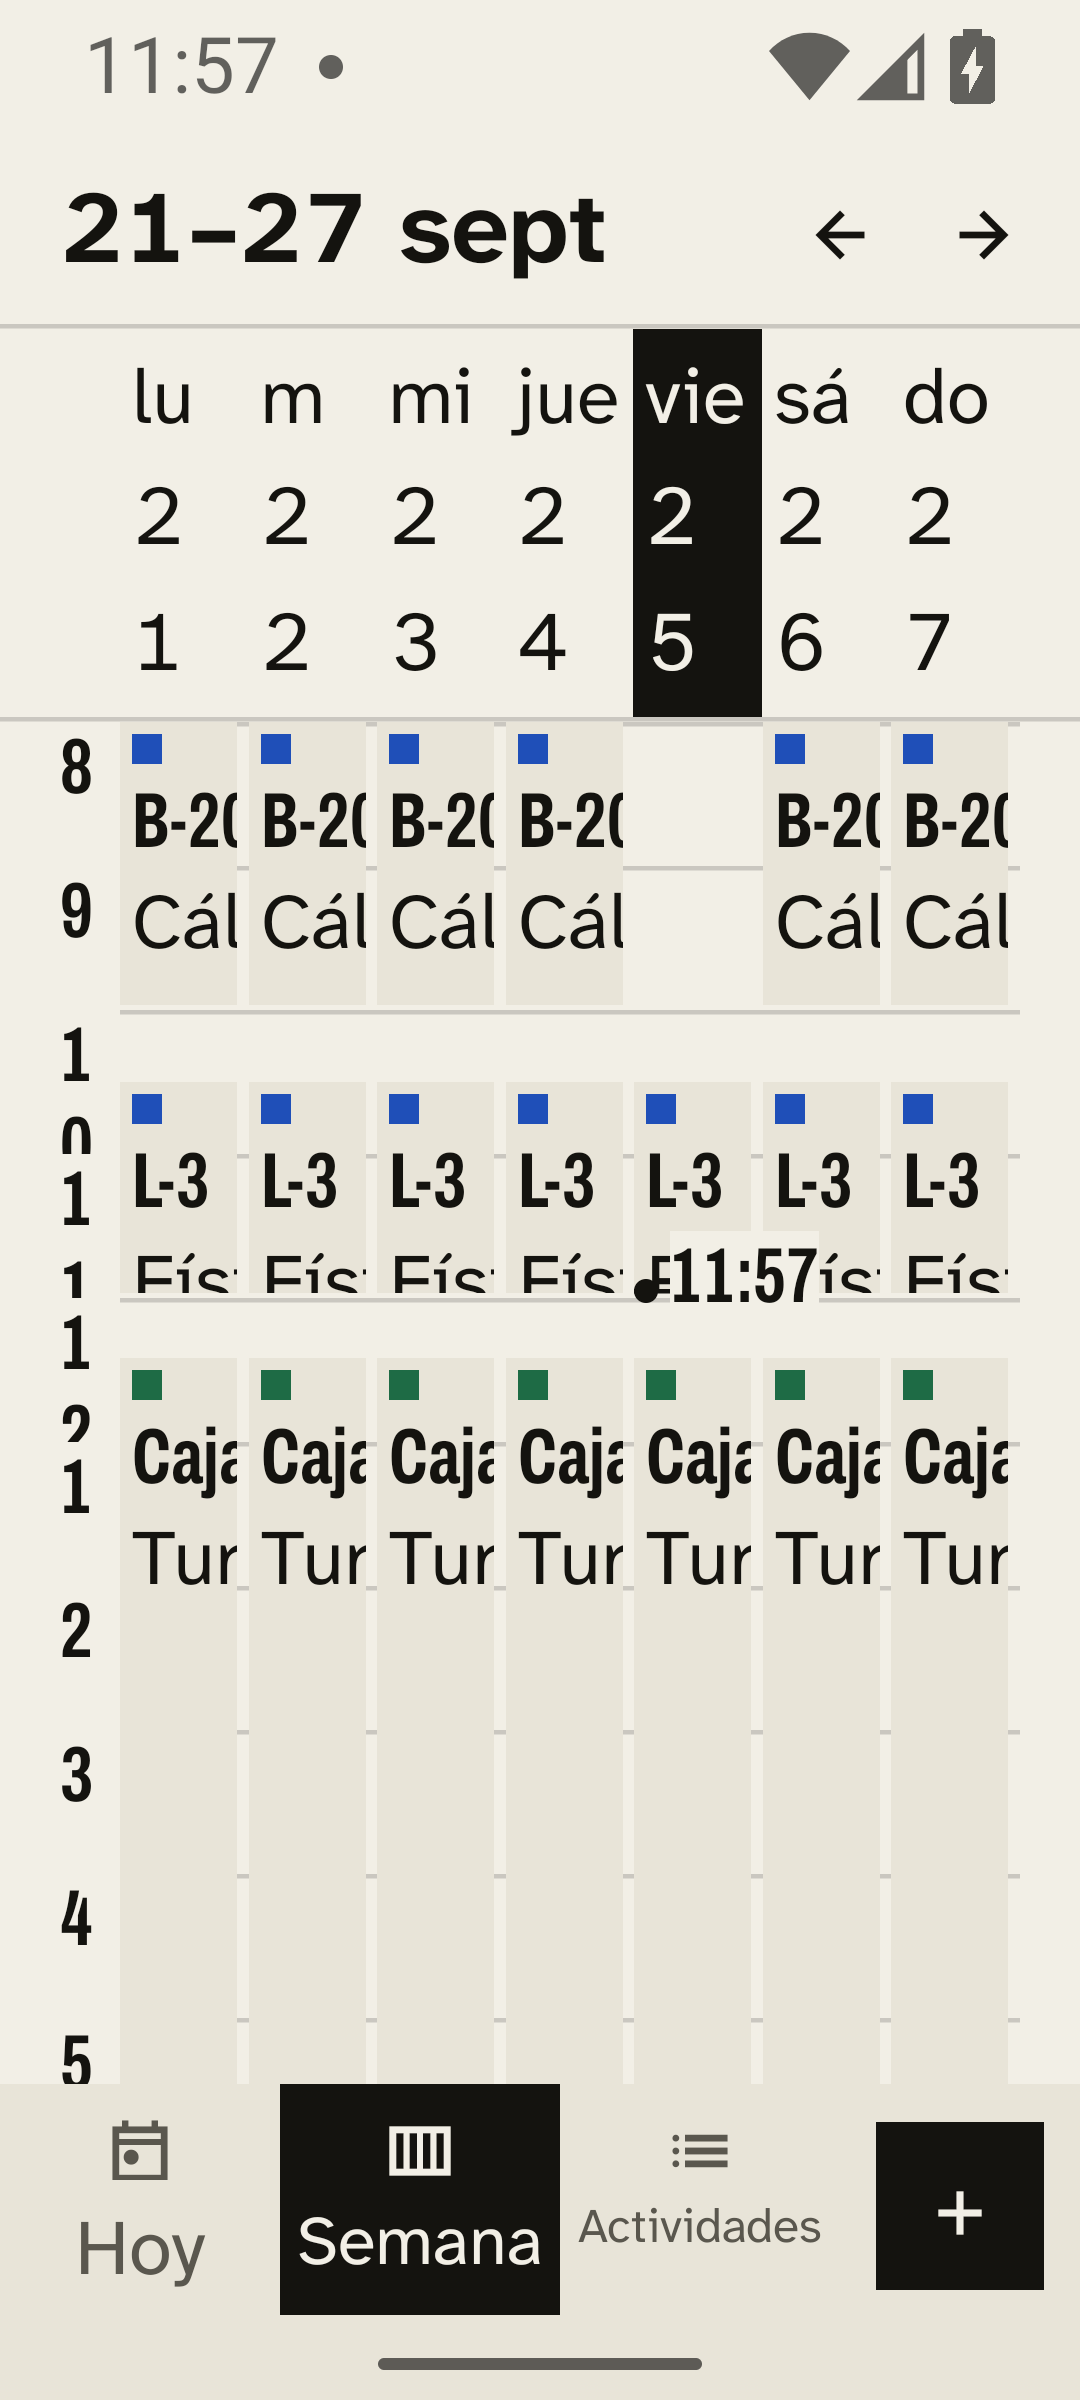
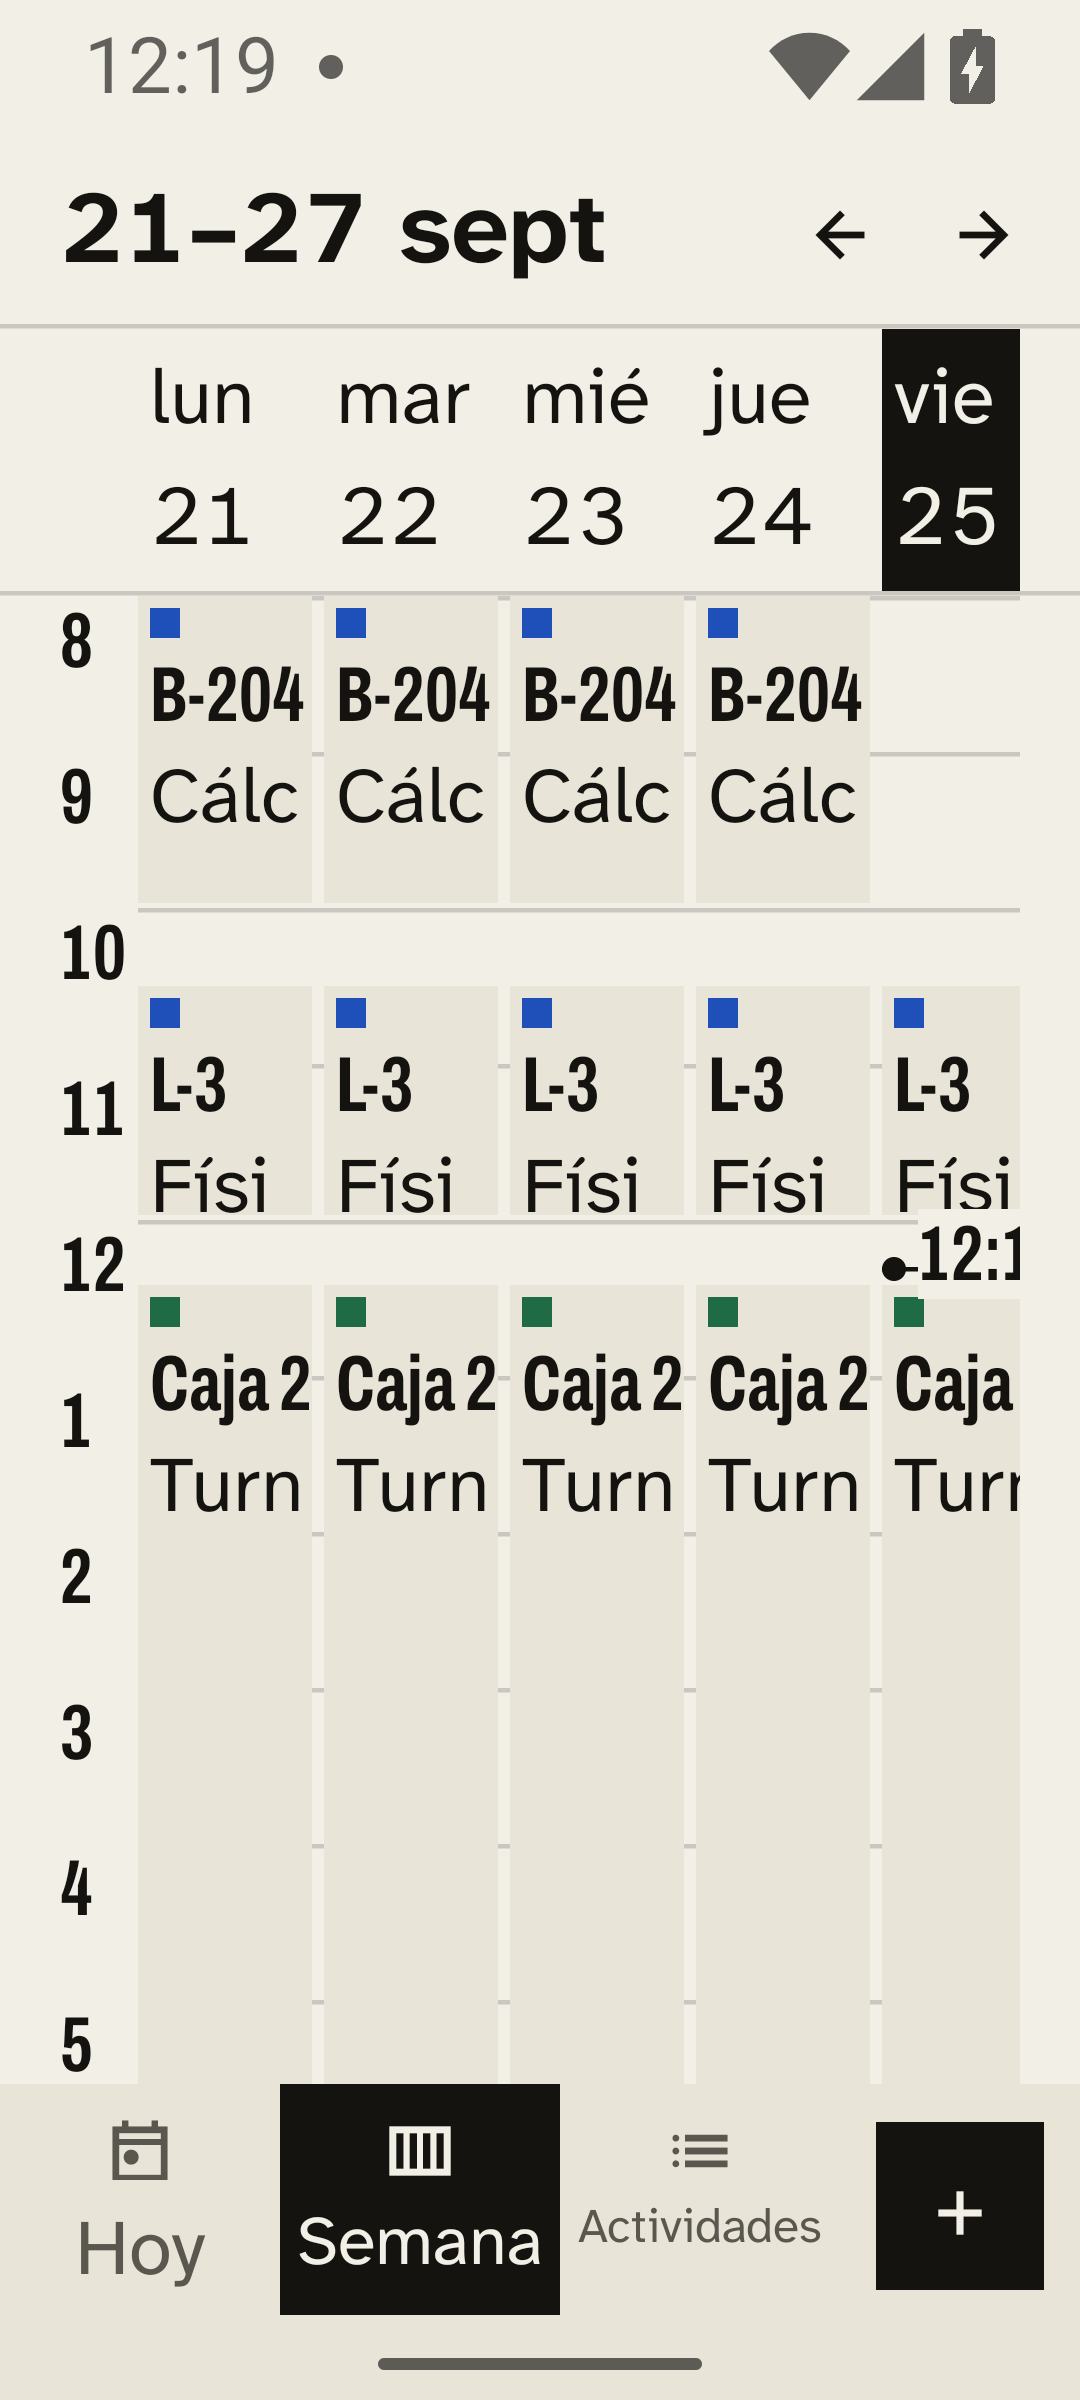
Semana: letra grande con desplazamiento horizontal y hoy a la vista

diff --git a/app/src/main/java/com/dpinta/agenda/ui/semana/SemanaScreen.kt b/app/src/main/java/com/dpinta/agenda/ui/semana/SemanaScreen.kt
@@ -17,6 +17,8 @@ import androidx.compose.foundation.layout.offset
 import androidx.compose.foundation.layout.padding
 import androidx.compose.foundation.layout.size
 import androidx.compose.foundation.layout.width
+import androidx.compose.foundation.ScrollState
+import androidx.compose.foundation.horizontalScroll
 import androidx.compose.foundation.rememberScrollState
 import androidx.compose.foundation.shape.CircleShape
 import androidx.compose.foundation.verticalScroll
@@ -24,11 +26,14 @@ import androidx.compose.material3.HorizontalDivider
 import androidx.compose.material3.Text
 import androidx.compose.material3.ripple
 import androidx.compose.runtime.Composable
+import androidx.compose.runtime.LaunchedEffect
 import androidx.compose.runtime.getValue
 import androidx.compose.runtime.remember
 import androidx.compose.ui.Modifier
 import androidx.compose.ui.draw.clipToBounds
 import androidx.compose.ui.graphics.graphicsLayer
+import androidx.compose.ui.platform.LocalDensity
+import androidx.compose.ui.text.rememberTextMeasurer
 import androidx.compose.ui.semantics.Role
 import androidx.compose.ui.semantics.clearAndSetSemantics
 import androidx.compose.ui.semantics.contentDescription
@@ -59,7 +64,7 @@ private val ESPANOL: Locale = Locale.forLanguageTag("es")
 private val DIA_LARGO = DateTimeFormatter.ofPattern("EEEE d 'de' MMMM", ESPANOL)
 private val DIA_CORTO = DateTimeFormatter.ofPattern("EEE d MMM", ESPANOL)
 
-/** C4.6: franjas de 48 dp por hora. */
+/** C4.6: franjas de 48 dp por hora (mínimo; ver [MedidasSemana]). */
 private val FRANJA: Dp = AgendaSpacing.s48
 
 /** Columna de horas de Semana: solo la cifra («7», «14»), en `celda`. */
@@ -125,81 +130,138 @@ private fun titulo(s: SemanaUiState.Semana): String {
     return s.numero?.let { "Semana $it · $rango" } ?: rango
 }
 
+/**
+ * Medidas de la rejilla según la letra del teléfono. Con la letra normal, 7 columnas iguales y
+ * franjas de 48 dp (C4.6). Si el salón no cabe, la columna toma el ancho que necesita y la rejilla
+ * se desliza en horizontal; si no cabe en alto, la franja crece (C2.4: nada se recorta; enmienda 2026-09-25).
+ */
+private data class MedidasSemana(val horas: Dp, val columna: Dp, val franja: Dp, val desliza: Boolean)
+
+@Composable
+private fun medir(s: SemanaUiState.Semana, ancho: Dp): MedidasSemana {
+    val t = AgendaTheme.tipo
+    val medidor = rememberTextMeasurer()
+    val densidad = LocalDensity.current
+    val es24h = rememberEs24h()
+    fun anchoDe(texto: String, estilo: androidx.compose.ui.text.TextStyle): Dp =
+        with(densidad) { medidor.measure(texto, estilo, softWrap = false, maxLines = 1).size.width.toDp() }
+    val horas = maxOf(COLUMNA_HORAS, anchoDe(if (es24h) "22" else "12", t.celda) + AgendaSpacing.s4)
+    val contenido = (
+        s.bloques.flatMap { listOf(anchoDe(it.salon, t.celda), anchoDe(it.abreviado, t.meta)) } +
+            s.dias.flatMap { listOf(anchoDe(nombreDia(it), t.meta), anchoDe(it.fecha.dayOfMonth.toString(), t.cuerpo)) } +
+            AgendaMedidas.marcadorTipo
+        ).max()
+    // 4 dp de relleno a la izquierda y 4 dp de separación a la derecha (C4.1).
+    val minima = contenido + AgendaSpacing.s8
+    val disponible = ancho - AgendaTheme.reticula.margen * 2 - horas
+    val lineaSalon = with(densidad) { medidor.measure("B-204", t.celda).size.height.toDp() }
+    val franja = maxOf(FRANJA, AgendaSpacing.s4 + AgendaMedidas.marcadorTipo + AgendaSpacing.s4 + lineaSalon + AgendaSpacing.s4)
+    return MedidasSemana(horas, maxOf(disponible / 7, minima), franja, minima * 7 > disponible)
+}
+
+private fun nombreDia(d: DiaSemana) = d.fecha.dayOfWeek.getDisplayName(TextStyle.SHORT, ESPANOL).removeSuffix(".")
+
 @Composable
 private fun Semana(s: SemanaUiState.Semana, onEditar: (Long) -> Unit, onEstaSemana: () -> Unit) {
     val c = AgendaTheme.colores
     val t = AgendaTheme.tipo
     val m = AgendaTheme.reticula.margen
-    if (s.ahora == null) {
-        Row(Modifier.padding(horizontal = m)) { BotonSubrayado("Volver a esta semana", tinta = c.tinta, onClick = onEstaSemana) }
+    BoxWithConstraints(Modifier.fillMaxSize()) {
+        val medidas = medir(s, maxWidth)
+        // Una sola posición horizontal para la tira de días y la rejilla: se deslizan juntas.
+        val lateral = rememberScrollState()
+        // Si la rejilla se desliza, se abre con hoy a la vista (una columna antes, para dar contexto).
+        val hoy = s.dias.indexOfFirst { it.esHoy }
+        val desde = with(LocalDensity.current) { (medidas.columna * maxOf(hoy - 1, 0)).roundToPx() }
+        LaunchedEffect(s.lunes, medidas.desliza) { if (medidas.desliza && hoy >= 0) lateral.scrollTo(desde) }
+        Column {
+            if (s.ahora == null) {
+                Row(Modifier.padding(horizontal = m)) { BotonSubrayado("Volver a esta semana", tinta = c.tinta, onClick = onEstaSemana) }
+            }
+            TiraDias(s, medidas, lateral)
+            for (d in s.dias.filter { it.sinClase != null }) {
+                Text(
+                    "${d.sinClase} · ${DIA_CORTO.format(d.fecha).replace(".", "")}",
+                    style = t.meta,
+                    color = c.tinta,
+                    modifier = Modifier.padding(horizontal = m, vertical = AgendaSpacing.s4),
+                )
+            }
+            if (s.bloques.isEmpty()) {
+                Text("Esta semana no tienes nada fijo.", style = t.cuerpo, color = c.tinta, modifier = Modifier.padding(horizontal = m, vertical = AgendaSpacing.s12))
+            }
+            HorizontalDivider(thickness = AgendaMedidas.filete, color = c.filete)
+            Rejilla(s, medidas, lateral, onEditar)
+        }
     }
-    TiraDias(s)
-    for (d in s.dias.filter { it.sinClase != null }) {
-        Text(
-            "${d.sinClase} · ${DIA_CORTO.format(d.fecha).replace(".", "")}",
-            style = t.meta,
-            color = c.tinta,
-            modifier = Modifier.padding(horizontal = m, vertical = AgendaSpacing.s4),
-        )
-    }
-    if (s.bloques.isEmpty()) {
-        Text("Esta semana no tienes nada fijo.", style = t.cuerpo, color = c.tinta, modifier = Modifier.padding(horizontal = m, vertical = AgendaSpacing.s12))
-    }
-    HorizontalDivider(thickness = AgendaMedidas.filete, color = c.filete)
-    Rejilla(s, onEditar)
 }
+
+private fun Modifier.deslizable(medidas: MedidasSemana, estado: ScrollState): Modifier =
+    if (medidas.desliza) horizontalScroll(estado) else this
 
 /** Tira de días: el de hoy invertido (C6), los demás sin caja. */
 @Composable
-private fun TiraDias(s: SemanaUiState.Semana) {
+private fun TiraDias(s: SemanaUiState.Semana, medidas: MedidasSemana, lateral: ScrollState) {
     val c = AgendaTheme.colores
     val t = AgendaTheme.tipo
-    Row(Modifier.fillMaxWidth().padding(start = AgendaTheme.reticula.margen + COLUMNA_HORAS, end = AgendaTheme.reticula.margen)) {
-        for (d in s.dias) {
-            val fondo = if (d.esHoy) c.tinta else c.papel
-            val tinta = if (d.esHoy) c.papel else c.tinta
-            val nombre = d.fecha.dayOfWeek.getDisplayName(TextStyle.SHORT, ESPANOL).removeSuffix(".")
-            Column(
-                Modifier
-                    .weight(1f)
-                    .background(fondo)
-                    .padding(horizontal = AgendaSpacing.s4, vertical = AgendaSpacing.s4)
-                    .clearAndSetSemantics {
-                        contentDescription = DIA_LARGO.format(d.fecha) + if (d.esHoy) ", hoy" else ""
-                    },
-            ) {
-                Text(nombre, style = t.meta, color = tinta, maxLines = 1)
-                Text(d.fecha.dayOfMonth.toString(), style = t.cuerpo, color = tinta)
+    val m = AgendaTheme.reticula.margen
+    Row(Modifier.fillMaxWidth().padding(start = m + medidas.horas, end = m)) {
+        Row(Modifier.weight(1f).deslizable(medidas, lateral)) {
+            for (d in s.dias) {
+                val fondo = if (d.esHoy) c.tinta else c.papel
+                val tinta = if (d.esHoy) c.papel else c.tinta
+                Column(
+                    Modifier
+                        .width(medidas.columna)
+                        .background(fondo)
+                        .padding(horizontal = AgendaSpacing.s4, vertical = AgendaSpacing.s4)
+                        .clearAndSetSemantics {
+                            contentDescription = DIA_LARGO.format(d.fecha) + if (d.esHoy) ", hoy" else ""
+                        },
+                ) {
+                    Text(nombreDia(d), style = t.meta, color = tinta, maxLines = 1, softWrap = false)
+                    Text(d.fecha.dayOfMonth.toString(), style = t.cuerpo, color = tinta, maxLines = 1, softWrap = false)
+                }
             }
         }
     }
 }
 
 @Composable
-private fun Rejilla(s: SemanaUiState.Semana, onEditar: (Long) -> Unit) {
+private fun Rejilla(s: SemanaUiState.Semana, medidas: MedidasSemana, lateral: ScrollState, onEditar: (Long) -> Unit) {
     val c = AgendaTheme.colores
     val es24h = rememberEs24h()
     val horas = s.hasta - s.desde
+    val franja = medidas.franja
+    val columna = medidas.columna
     Box(Modifier.fillMaxWidth().verticalScroll(rememberScrollState())) {
-        Row(Modifier.fillMaxWidth().height(FRANJA * horas).padding(horizontal = AgendaTheme.reticula.margen)) {
-            // Columna de horas: la cifra en la parte alta de cada franja.
-            Column(Modifier.width(COLUMNA_HORAS)) {
+        Row(Modifier.fillMaxWidth().height(franja * horas).padding(horizontal = AgendaTheme.reticula.margen)) {
+            // Columna de horas, fija aunque la rejilla se deslice: la cifra en la parte alta de cada franja.
+            Column(Modifier.width(medidas.horas)) {
                 for (h in s.desde until s.hasta) {
                     val cifra = if (es24h || h % 12 != 0) (if (es24h) h else h % 12).toString() else "12"
-                    Text(cifra, style = AgendaTheme.tipo.celda, color = c.tinta, modifier = Modifier.height(FRANJA).clearAndSetSemantics { })
+                    Text(
+                        cifra,
+                        style = AgendaTheme.tipo.celda,
+                        color = c.tinta,
+                        maxLines = 1,
+                        softWrap = false,
+                        modifier = Modifier.height(franja).clearAndSetSemantics { },
+                    )
                 }
             }
-            BoxWithConstraints(Modifier.weight(1f).fillMaxHeight()) {
-                val columna = maxWidth / 7
-                // Filete de 1,5 dp al inicio de cada hora (C6: separar filas).
-                for (h in 0 until horas) {
-                    HorizontalDivider(thickness = AgendaMedidas.filete, color = c.filete, modifier = Modifier.offset(y = FRANJA * h))
-                }
-                for (b in s.bloques) Celda(b, s.desde, columna, onEditar)
-                s.ahora?.let { ahora ->
-                    val hoy = s.dias.indexOfFirst { it.esHoy }
-                    val y = FRANJA * ((ahora.hour - s.desde) + ahora.minute / 60f)
-                    if (hoy >= 0 && ahora.hour >= s.desde && ahora.hour < s.hasta) LineaAhora(columna * hoy, y, columna, formatearHora(ahora, es24h).cifra)
+            Box(Modifier.weight(1f).fillMaxHeight().deslizable(medidas, lateral)) {
+                Box(Modifier.width(columna * 7).fillMaxHeight()) {
+                    // Filete de 1,5 dp al inicio de cada hora (C6: separar filas).
+                    for (h in 0 until horas) {
+                        HorizontalDivider(thickness = AgendaMedidas.filete, color = c.filete, modifier = Modifier.offset(y = franja * h))
+                    }
+                    for (b in s.bloques) Celda(b, s.desde, columna, franja, onEditar)
+                    s.ahora?.let { ahora ->
+                        val hoy = s.dias.indexOfFirst { it.esHoy }
+                        val y = franja * ((ahora.hour - s.desde) + ahora.minute / 60f)
+                        if (hoy >= 0 && ahora.hour >= s.desde && ahora.hour < s.hasta) LineaAhora(columna * hoy, y, columna, formatearHora(ahora, es24h).cifra)
+                    }
                 }
             }
         }
@@ -207,14 +269,14 @@ private fun Rejilla(s: SemanaUiState.Semana, onEditar: (Long) -> Unit) {
 }
 
 @Composable
-private fun Celda(b: Bloque, desde: Int, columna: Dp, onEditar: (Long) -> Unit) {
+private fun Celda(b: Bloque, desde: Int, columna: Dp, franja: Dp, onEditar: (Long) -> Unit) {
     val c = AgendaTheme.colores
     val t = AgendaTheme.tipo
     val es24h = rememberEs24h()
-    val arriba = FRANJA * ((b.inicio.hour - desde) + b.inicio.minute / 60f)
+    val arriba = franja * ((b.inicio.hour - desde) + b.inicio.minute / 60f)
     val minutos = (b.fin.toSecondOfDay() - b.inicio.toSecondOfDay()) / 60f
     // C9.2: nunca menos de 48 dp tocables, aunque la sesión dure menos de una hora.
-    val alto = maxOf(FRANJA * (minutos / 60f), AgendaMedidas.toque)
+    val alto = maxOf(franja * (minutos / 60f), AgendaMedidas.toque)
     val ancho = columna / b.carriles
     val frase = listOf(
         b.fecha(),

diff --git a/docs/ux/anexos/2026-09-23-agenda-direcciones.md b/docs/ux/anexos/2026-09-23-agenda-direcciones.md
@@ -202,6 +202,7 @@ Vista de mes, tareas y exámenes (se diseñarán con enmienda cuando se aborden)
 | 2026-09-24 | (fuera de alcance → nuevo) Icono de la app | Icono adaptativo «7:32» en Archivo 62/800, `tinta` sobre `senal`, con capa monocroma para iconos temáticos; texto dentro de la zona segura de 66 dp (esquina a 32,5 dp del centro); 10,15:1 medido sobre el render. Descartadas: «Salir» (se lee como cerrar sesión) y «La banda» (ilegible a 48 dp). Vista previa: `docs/capturas/icono-direcciones.png`. | El contrato dejaba el icono fuera de alcance. | Diego (eligió A) |
 | 2026-09-25 | C2.3 | Nuevo rol `celda`: Archivo 62, 700, 14/16 sp, solo para el código de salón y las horas dentro de una celda de Semana (columnas de ~42 dp a 360 dp, donde `fila-hora` de 18 sp no cabe). El nombre abreviado de la celda va en `meta`. | El código de salón debe ir en Archivo (C2.1) y la escala no tenía Archivo a 14 sp. | Diego |
 | 2026-09-25 | (aclaración, sin cambio de cláusula) | En Semana las celdas van todas en `papel-2` con el cuadrado de tipo; los turnos **no** llevan relleno de color como sugería el boceto, porque C3.2 manda. La flecha «semana siguiente» es el glifo de atrás reflejado. | Contradicción entre el boceto y C3.2. | Diego |
+| 2026-09-25 | C4.6 / C2.4 | Letra grande en Semana: si el salón no cabe en 7 columnas, cada columna toma el ancho que necesita y la tira de días y la rejilla se deslizan juntas en horizontal (la columna de horas queda fija) y la vista se abre con hoy a la vista; la franja pasa de 48 dp solo si el salón no cabe en alto. Horas y días nunca se parten. Con letra normal no cambia nada. | Con fuente 2,0 a 360 dp se partían las horas («1 / 0») y se recortaba el salón («B-20»). | Diego |
 
 ---
 

diff --git a/CONTINUAR.md b/CONTINUAR.md
@@ -97,7 +97,12 @@ alcance completo P1–P3; reloj según el ajuste del teléfono; mano derecha; tr
 4. Semana y Actividades con datos reales. **Actividades hecha 2026-09-25** (rama `avisos`): Clases · Trabajo · Puntuales
    (examen cuenta como clase, «otro» como puntual) y Lugares guardados con su número de actividades; tocar una fila
    abre la edición; «lun, mié y vie · 8:00 → 10:00 a. m. · Campus». Medido en emulador claro, oscuro y 360 dp + fuente
-   2,0 (`docs/capturas/paso7-*`): contraste mínimo 5,68:1 (barra inferior, previa), toques ≥ 48 dp. Falta: Semana.
+   2,0 (`docs/capturas/paso7-*`): contraste mínimo 5,68:1 (barra inferior, previa), toques ≥ 48 dp.
+   **Semana hecha 2026-09-25**: rejilla de 7 días con franjas de 48 dp, hoy invertido, línea de «ahora» solo en hoy,
+   celdas en `papel-2` con cuadrado de tipo + salón (rol nuevo `celda`) + nombre abreviado, carriles si dos sesiones se
+   cruzan, festivos del semestre, número de semana, ‹ › y «Volver a esta semana». Con letra grande se desliza en
+   horizontal (enmiendas del 2026-09-25 en el anexo). `docs/capturas/paso8-*`.
+   Copia sin cláusula, pendiente de visto bueno: «Esta semana no tienes nada fijo.» y «Volver a esta semana».
 5. Prioridad 1 de la arquitectura: widget Glance (siguiente actividad + hora de salida), semestres/festivos en la UI.
 6. Prioridad 2: modo clase (No Molestar), tareas y exámenes por materia, resumen matutino, asistencia, horas trabajadas.
 7. Prioridad 3: importar/exportar `.ics`, notas por clase, **Wear OS** (Diego piensa comprar un Galaxy Watch8; mientras, emulador Wear OS 6).
